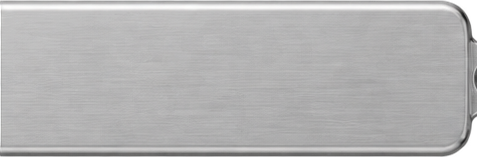
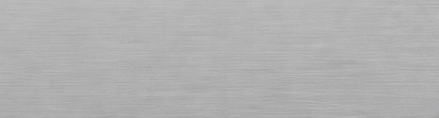
Торец снова окрашен, шлифовка выровнена; стрелки направлений не сдвигают страницу

Changed region(s): [[0.0, 0.0, 1.0, 1.0]]

diff --git a/components/directions.tsx b/components/directions.tsx
@@ -18,19 +18,14 @@ const EVERY = 5000;
 
 export function Directions() {
   const rail = useRef<HTMLUListElement>(null);
-  // `scrolls: false` — лента влезла целиком, листать нечего
-  const [edge, setEdge] = useState({ start: true, end: true, scrolls: false });
+  const [edge, setEdge] = useState({ start: true, end: true });
   const [paused, setPaused] = useState(false);
 
   const measure = useCallback(() => {
     const el = rail.current;
     if (!el) return;
     const max = el.scrollWidth - el.clientWidth;
-    setEdge({
-      start: el.scrollLeft <= 4,
-      end: el.scrollLeft >= max - 4,
-      scrolls: max > 4,
-    });
+    setEdge({ start: el.scrollLeft <= 4, end: el.scrollLeft >= max - 4 });
   }, []);
 
   useEffect(() => {
@@ -88,24 +83,28 @@ export function Directions() {
             </h2>
           </div>
 
-          {/* когда листать нечего, двух погашенных кнопок в углу быть
-              не должно: это управление без управляемого */}
-          {edge.scrolls ? (
-            <div className="flex gap-2">
-              <Arrow
-                dir={-1}
-                disabled={edge.start}
-                onClick={() => step(-1)}
-                label="Назад"
-              />
-              <Arrow
-                dir={1}
-                disabled={edge.end}
-                onClick={() => step(1)}
-                label="Вперёд"
-              />
-            </div>
-          ) : null}
+          {/* Когда листать нечего, двух погашенных кнопок в углу быть
+              не должно — но условие берём из вёрстки, а не из замера.
+              Ниже `lg` карточка шире трети ленты и лента листается
+              всегда, от `lg` три карточки встают ровно по ширине.
+              Замером это решалось после гидратации: кнопки появлялись
+              задним числом, строка переносилась, и всё, что ниже,
+              съезжало вниз. Из-за этого кнопка героя не доводила
+              до конструктора — прыжок случался до сдвига. */}
+          <div className="flex gap-2 lg:hidden">
+            <Arrow
+              dir={-1}
+              disabled={edge.start}
+              onClick={() => step(-1)}
+              label="Назад"
+            />
+            <Arrow
+              dir={1}
+              disabled={edge.end}
+              onClick={() => step(1)}
+              label="Вперёд"
+            />
+          </div>
         </div>
 
         <ul

diff --git a/components/flash-drive.tsx b/components/flash-drive.tsx
@@ -7,7 +7,6 @@ import {
   DriveRing,
   КОЛПАЧОК,
   КОРПУС_D,
-  КРАЙ,
   ПЛАСТИНА_X,
   ПЛАСТИНА_Y,
   ХОЛСТ,
@@ -64,11 +63,8 @@ const LABEL_SIZE = 2.4; // кегль подписи предмета, мм
 const TILT = (7 * Math.PI) / 180; // наклон подписи, как на фотографии партии
 const PROBE_Y = -20; // базовая линия невидимого дубля, за пределами пластины
 
-/** Голый анодированный алюминий — цвет проушины под кольцо. */
-const МЕТАЛЛ = "#b8babc";
-
-/** Средняя яркость серой пластины в базовом снимке. */
-const BASE_LUMA = 179 / 255;
+/** Средняя яркость шлифовки в `plate.png` — замер после выравнивания. */
+const BASE_LUMA = 177 / 255;
 
 /** Осветление под `multiply`: после умножения на металл вернётся исходный цвет. */
 function tint(hex: string) {
@@ -209,23 +205,13 @@ export function FlashDrive({
           {chain ? <DriveRing uid={uid} /> : null}
 
           <g clipPath={`url(#${uid}-body)`}>
-          {/* Анодировка: цвет под шлифовкой, снимок ложится умножением.
-              Дальний торец не окрашивается — там проушина под заводное
-              кольцо, это голый металл. Цвет обрывается ровно на дуге,
-              поэтому граница совпадает с началом скругления. */}
+          {/* Анодировка: цвет под шлифовкой, снимок ложится умножением. */}
           <rect
             x={ПЛАСТИНА_X}
             y={ПЛАСТИНА_Y}
-            width={SPEC.plate - КРАЙ}
+            width={SPEC.plate}
             height={SPEC.plateH}
             fill={tint(color)}
-          />
-          <rect
-            x={ПЛАСТИНА_X + SPEC.plate - КРАЙ}
-            y={ПЛАСТИНА_Y}
-            width={КРАЙ}
-            height={SPEC.plateH}
-            fill={tint(МЕТАЛЛ)}
           />
           <image
             href="/drive/plate.png"

diff --git a/components/drive-shape.tsx b/components/drive-shape.tsx
@@ -17,7 +17,7 @@ import { SPEC } from "@/lib/site";
  */
 export const КОЛПАЧОК = 5.4;
 /** Вылет торца по горизонтали. */
-export const КРАЙ = 2.6;
+const КРАЙ = 2.6;
 const КОЛЬЦО_R = 2.3;
 const ПОЛЕ = 1;
 

diff --git a/scripts/prepare-drive.py b/scripts/prepare-drive.py
@@ -3,7 +3,7 @@
 Готовит фактуру металла для модели флешки.
 
 Силуэт корпуса рисуется вектором (`components/drive-shape.tsx`): на чертеже
-заказчика корпус — капсула со скруглением по половине высоты, и обрезкой
+заказчика у корпуса прямые верх и низ и эллиптические торцы, и обрезкой
 снимка такую форму не собрать. От снимка нужна только шлифовка —
 `public/drive/plate.png`, прямоугольник пластины, который в модели
 ложится на цвет умножением.
@@ -43,6 +43,43 @@ def object_box(im, alpha=60):
                 minx, maxx = min(minx, x), max(maxx, x)
                 miny, maxy = min(miny, y), max(maxy, y)
     return minx, miny, maxx, maxy
+
+
+
+def save_plate(fixed, x0, x1, top, bot, scale):
+    """
+    Шлифовка для модели — только ровная середина пластины.
+
+    Снимок сделан с настоящей флешки, и у него запечён собственный торец:
+    светлый кант, тёмный шов и вырез под кольцо. Модель растягивает файл
+    на свои 50 мм, и этот запечённый торец попадал внутрь корпуса —
+    получалась светлая полоса поперёк и тёмное пятно у края. Оттенки
+    «съезжали»: свет лежал там, где его на предмете нет.
+
+    Поэтому берём середину — по 2 мм от каждого края долой — и убираем
+    из неё продольный завал яркости (185 слева против 172 справа): он
+    красил один конец корпуса темнее другого. Убирается только плавный
+    завал, шлифовальные штрихи остаются — тренд считается по столбцам
+    и сглаживается окном в 60 px.
+
+    Поперечная растушёвка (сверху светлее, снизу темнее) — настоящая
+    тень скруглённого корпуса, её не трогаем.
+    """
+    import numpy as np
+
+    m = round(2 * scale)  # 2 мм запаса от каждого края
+    crop = fixed.crop((x0 + m, top + m, x1 - m, bot - m)).convert("RGB")
+    a = np.asarray(crop).astype(float)
+
+    trend = a.mean(axis=(0, 2))
+    k = min(60, len(trend) // 2 * 2 + 1)
+    pad = np.pad(trend, k // 2, mode="edge")
+    smooth = np.convolve(pad, np.ones(k) / k, mode="valid")[: len(trend)]
+    a *= (trend.mean() / smooth)[None, :, None]
+
+    out = Image.fromarray(np.clip(a, 0, 255).astype("uint8"))
+    out.save(OUT / "plate.png")
+    print(f"шлифовка: {out.size[0]}×{out.size[1]} px, завал по длине снят")
 
 
 def main():
@@ -140,6 +177,8 @@ def main():
 
     save_mask(full, box, "plate-mask.png")
     save_mask(solo, solo_box, "plate-mask-solo.png")
+
+    save_plate(fixed, minx + cap_target, plate_end - shift, top, bot, scale)
 
     # средний цвет пластины — по нему считается компенсация тонировки
     fpx = fixed.load()
